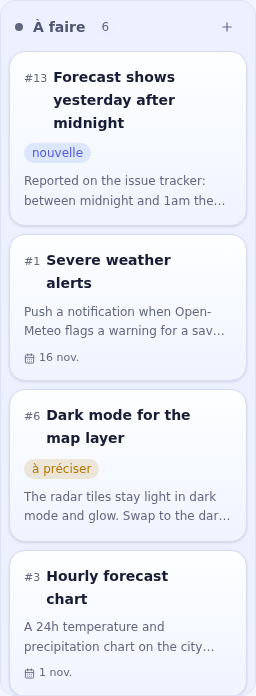
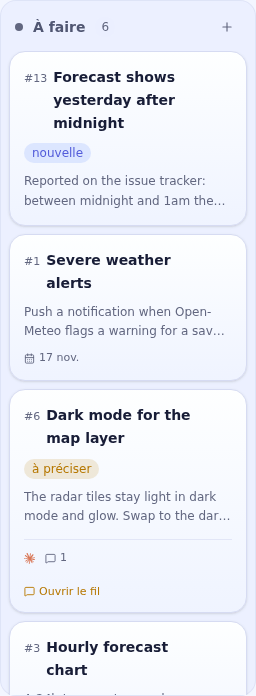
Clarifier une carte au lancement, avant d'écrire du code (#67)
- Le briefing d'une session sur une carte ouverte lui dit de lire la carte puis le
  code, et, si la carte ne suffit pas, de la mettre « à préciser », de poser ses
  questions dans le fil et en note, et de finir son tour sans coder.
- Relancée sur une carte « à préciser », la session est invitée à relire les
  questions avec les réponses ; le lancement ne fait plus passer une telle carte
  « en cours », pour que l'état survive jusqu'au briefing.
- Le board mène au fil qui attend la réponse : « Ouvrir le fil » sur la tuile et
  dans le bandeau de la fiche.

diff --git a/apps/server/src/agents/overview.ts b/apps/server/src/agents/overview.ts
@@ -110,7 +110,13 @@ function describe(row: Row, now: number): string {
  */
 function cardBriefing(db: Db, input: OverviewInput): string | null {
   const card = db
-    .select({ number: cards.number, title: cards.title, column: cards.column, id: cards.id })
+    .select({
+      number: cards.number,
+      title: cards.title,
+      column: cards.column,
+      id: cards.id,
+      toClarifySince: cards.toClarifySince,
+    })
     .from(cards)
     .innerJoin(conversations, eq(conversations.cardId, cards.id))
     .where(eq(conversations.id, input.conversationId))
@@ -124,8 +130,9 @@ function cardBriefing(db: Db, input: OverviewInput): string | null {
     .all()
 
   const previous = before?.total ?? 0
+  const clarifying = card.column === 'todo' && card.toClarifySince !== null
   const lines = [
-    `Cette conversation traite la carte #${card.number} « ${card.title} », ${COLUMN_WORDS[card.column]}.`,
+    `Cette conversation traite la carte #${card.number} « ${card.title} », ${clarifying ? 'à préciser' : COLUMN_WORDS[card.column]}.`,
   ]
 
   if (previous > 0) {
@@ -144,6 +151,8 @@ function cardBriefing(db: Db, input: OverviewInput): string | null {
           : "Terminé, abandonné, l'échéance, la parente et les blocages, eux, se posent dans l'interface et jamais par toi."
       }`,
     )
+    if (clarifying) lines.push(RESUME_CLARIFICATION)
+    else if (OPEN_COLUMNS.has(card.column)) lines.push(CLARIFY_FIRST)
   }
 
   return lines.join(' ')
@@ -151,7 +160,35 @@ function cardBriefing(db: Db, input: OverviewInput): string | null {
 
 /** Ce qu'un agent fait seul sur sa carte (#66), dit dans les deux cas du briefing. */
 const OWN_CARD_GESTURES =
-  "Tu ranges toi-même ta carte avec `move_card` : « à préciser » si elle ne dit pas assez pour écrire du code, « en cours » quand tu travailles, « à vérifier » quand ton travail attend une relecture. Coche ses sous-tâches à mesure avec `edit_subtasks`, et si le cahier des charges change en route, complète sa description avec `append_card_description`, sans réécrire ce qui précède."
+  "Tu ranges toi-même ta carte avec `move_card` : « à préciser » quand tu attends des réponses, « en cours » quand tu travailles, « à vérifier » quand ton travail attend une relecture. Coche ses sous-tâches à mesure avec `edit_subtasks`, et si le cahier des charges change en route, complète sa description avec `append_card_description`, sans réécrire ce qui précède."
+
+/**
+ * La clarification avant le code (#67).
+ *
+ * Une carte écrite vite laisse des trous que l'agent comble par des suppositions, et on
+ * ne le découvre qu'à la relecture, quand le code est écrit. Lire le code avant de
+ * questionner est ce qui distingue une question utile (« ce champ existe déjà dans tel
+ * fichier, on l'étend ? ») d'une question générique. Finir son tour sans coder est la
+ * moitié de la consigne : un modèle pose ses questions puis enchaîne sur ses propres
+ * hypothèses si on ne lui dit pas d'attendre.
+ *
+ * Pas dite sur une carte en relecture ou fermée : ce qu'il y reste à faire n'est plus
+ * de cadrer le travail.
+ */
+const CLARIFY_FIRST =
+  "Avant d'écrire du code, lis la carte puis le code qu'elle concerne, pour juger si elle dit assez pour travailler et pour poser des questions précises plutôt que génériques. Si elle suffit, travaille. Sinon, mets-la « à préciser » avec `move_card`, pose tes questions dans ta réponse, laisse-les aussi en note avec `add_card_note` pour qu'on les voie depuis le board, et termine ton tour sans écrire de code : la réponse viendra dans ce fil. Avec elle, ramène la carte « en cours », et si le cahier des charges a changé, complète sa description avec `append_card_description`."
+
+/**
+ * La reprise d'une carte laissée « à préciser » : une session précédente a posé des
+ * questions, et la réponse est peut-être dans le premier message de celle-ci. Le
+ * lancement ne la fait pas passer « en cours » (`advanceCardOnLaunch`), pour que ce
+ * soit dit ici.
+ */
+const RESUME_CLARIFICATION =
+  "Elle est « à préciser » : une session précédente a posé des questions, qui sont dans ses notes (`read_card`). Relis-les avec les réponses de l'utilisateur avant d'écrire du code. Si elles suffisent, ramène la carte « en cours » avec `move_card`, et complète sa description avec `append_card_description` si le cahier des charges a changé ; sinon, pose ce qui reste et termine ton tour."
+
+/** Les colonnes où le travail n'est pas encore cadré, et où la clarification se dit. */
+const OPEN_COLUMNS = new Set(['todo', 'in_progress'])
 
 /** Les colonnes en toutes lettres : les valeurs stockées sont des identifiants. */
 const COLUMN_WORDS: Record<string, string> = {

diff --git a/apps/web/src/components/board/CardDetail.tsx b/apps/web/src/components/board/CardDetail.tsx
@@ -1,8 +1,8 @@
-import { CalendarDays, Check, ChevronDown, CircleHelp, ListTree, MoreHorizontal, Pencil, Play, Plus, Trash2, X } from 'lucide-react'
+import { CalendarDays, Check, ChevronDown, CircleHelp, ListTree, MessageSquare, MoreHorizontal, Pencil, Play, Plus, Trash2, X } from 'lucide-react'
 import { useEffect, useState, type ReactNode } from 'react'
 import { useNavigate } from 'react-router-dom'
 import { CARD_CLOSED_COLUMNS, CARD_COLUMNS, parentCloseProposed, parseSubtasks, type CardDto } from '@solera/protocol'
-import { useCardSaving, useDeleteCard, useToggleSubtask, useTriageCard, useUpdateCard } from '../../lib/cards'
+import { clarifyingThread, latestSession, useCardSaving, useDeleteCard, useToggleSubtask, useTriageCard, useUpdateCard } from '../../lib/cards'
 import { useCardDraft } from '../../lib/card-drafts'
 import { useCurrentUser } from '../../lib/session'
 import { locale, translate, useTranslate } from '../../lib/i18n'
@@ -75,9 +75,8 @@ export function CardDetail({
   const accepted = card.acceptedAt !== null
   const toggleSubtask = useToggleSubtask(projectId, card.id)
   const saving = useCardSaving(card.id)
-  const latestSession = card.conversations.filter((session) => !session.archivedAt)
-    .sort((a, b) => b.createdAt - a.createdAt)[0]
-  const resumable = latestSession && latestSession.id !== currentConversationId ? latestSession : undefined
+  const latest = latestSession(card)
+  const resumable = latest && latest.id !== currentConversationId ? latest : undefined
 
   const { data: user } = useCurrentUser()
   const { draft, setDraft, acknowledge } = useCardDraft(user?.id ?? '', card.id)
@@ -263,7 +262,8 @@ export function CardDetail({
           </aside>
 
           <div className="flex min-w-0 flex-col gap-5 pb-5 [grid-area:desc]">
-            <CardStateBanners card={card} projectId={projectId} accepted={accepted} triage={triage} updateCard={updateCard} />
+            <CardStateBanners card={card} projectId={projectId} accepted={accepted} triage={triage} updateCard={updateCard}
+              currentConversationId={currentConversationId} />
             {editVisible ? null : (
               <div className="flex flex-col gap-2">
                 {card.description ? (
@@ -303,15 +303,21 @@ function CardStateBanners({
   accepted,
   triage,
   updateCard,
+  currentConversationId,
 }: {
   card: CardDto
   projectId: string
   accepted: boolean
   triage: ReturnType<typeof useTriageCard>
   updateCard: ReturnType<typeof useUpdateCard>
+  currentConversationId?: string
 }) {
   const t = useTranslate()
+  const navigate = useNavigate()
   const busy = triage.isPending || updateCard.isPending
+  // Lu depuis le fil même, le lien y ramènerait : on y est déjà.
+  const thread = clarifyingThread(card)
+  const openThread = thread && thread.id !== currentConversationId ? thread : undefined
   return (
     <>
       {!accepted && card.column === 'todo' ? (
@@ -344,7 +350,13 @@ function CardStateBanners({
       {card.toClarifySince !== null && card.column === 'todo' ? (
         <div className="flex flex-col gap-2">
           <Banner tone="caution">{t('board.card.toClarify.body')}</Banner>
-          <div>
+          <div className="flex flex-wrap items-center gap-1.5">
+            {openThread ? (
+              <Button size="sm" icon={<MessageSquare size={14} />}
+                onClick={() => navigate(`/p/${projectId}/c/${openThread.id}`)}>
+                {t('board.card.toClarify.openThread')}
+              </Button>
+            ) : null}
             <Button size="sm" variant="secondary" icon={<Check size={14} />} disabled={busy}
               onClick={() => updateCard.mutate({ id: card.id, toClarify: false })}>
               {t('board.card.toClarify.clear')}

diff --git a/apps/server/test/card-fields.test.ts b/apps/server/test/card-fields.test.ts
@@ -7,8 +7,9 @@ import { fileURLToPath } from 'node:url'
 import Fastify from 'fastify'
 import multipart from '@fastify/multipart'
 import { asc, eq } from 'drizzle-orm'
-import { cardMoves, openDatabase, projects, runMigrations, users } from '@solera/db'
+import { cardMoves, conversations, openDatabase, projects, runMigrations, users } from '@solera/db'
 import { parseSubtasks, toggleSubtask, type CardDto } from '@solera/protocol'
+import { projectOverview } from '../src/agents/overview.js'
 import { AttachmentStore } from '../src/attachments/store.js'
 import { advanceCardOnLaunch, createCard } from '../src/cards/create.js'
 import type { Config } from '../src/config.js'
@@ -196,6 +197,40 @@ test('à préciser : ramène en « à faire », et s\'efface dès que la carte e
 
   await patch({ column: 'done' })
   assert.equal((await patch({ toClarify: true })).statusCode, 409, 'une carte fermée n\'a plus rien à préciser')
+})
+
+test('à préciser au lancement : la carte reste « à faire », et le briefing demande de relire les questions', async (t) => {
+  const { app, ctx, db, create } = await harness(t)
+  const card = await create('Floue')
+  const briefing = () =>
+    projectOverview(db, { projectId: 'project', conversationId: 'session', soleraMcp: true, cardFiling: false }) ?? ''
+  db.insert(conversations).values({
+    id: 'session', projectId: 'project', userId: 'owner', title: 'Sur la carte', agent: 'claude', config: '{}',
+    status: 'running', cardId: card.id, createdAt: 1, updatedAt: 1,
+  }).run()
+
+  // Une carte neuve : clarifier avant le code, en lisant le code d'abord.
+  assert.match(briefing(), /Avant d'écrire du code, lis la carte puis le code qu'elle concerne/)
+  assert.match(briefing(), /termine ton tour sans écrire de code/)
+
+  // Relancée après les questions : le lancement ne l'efface pas, le briefing le dit.
+  await app.inject({ method: 'PATCH', url: `/api/cards/${card.id}`, payload: { toClarify: true } })
+  advanceCardOnLaunch(ctx, card.id, 'owner')
+  const after: CardDto = (await app.inject('/api/projects/project/cards')).json().find((row: CardDto) => row.id === card.id)
+  assert.equal(after.column, 'todo')
+  assert.equal(typeof after.toClarifySince, 'number', 'le lancement ne lève pas l\'état')
+  assert.match(briefing(), /« Floue », à préciser\./)
+  assert.match(briefing(), /une session précédente a posé des questions/)
+  assert.doesNotMatch(briefing(), /Avant d'écrire du code, lis la carte/)
+
+  // En relecture, plus rien à cadrer.
+  await app.inject({ method: 'PATCH', url: `/api/cards/${card.id}`, payload: { column: 'review' } })
+  assert.doesNotMatch(briefing(), /Avant d'écrire du code|à préciser »\s*:/)
+
+  // Sans les outils de Solera, ni l'une ni l'autre : elles nomment des outils absents.
+  await app.inject({ method: 'PATCH', url: `/api/cards/${card.id}`, payload: { column: 'todo' } })
+  const bare = projectOverview(db, { projectId: 'project', conversationId: 'session', soleraMcp: false, cardFiling: false }) ?? ''
+  assert.doesNotMatch(bare, /move_card/)
 })
 
 test('non acceptée : acceptée, rattachée ou refusée, et sans session tant qu\'elle attend', async (t) => {

diff --git a/apps/web/src/components/board/CardTile.tsx b/apps/web/src/components/board/CardTile.tsx
@@ -3,6 +3,8 @@ import { CSS } from '@dnd-kit/utilities'
 import { CalendarDays, CheckSquare, Clock, GitBranch, GripVertical, Link2, ListTree, MessageSquare, Paperclip } from 'lucide-react'
 import { parseSubtasks, type CardDto, type ProjectDto } from '@solera/protocol'
 import type { KeyboardEventHandler, MouseEventHandler, TouchEventHandler } from 'react'
+import { Link } from 'react-router-dom'
+import { clarifyingThread } from '../../lib/cards'
 import { daysUntil, formatDay, relativeDate, shortAge } from '../../lib/dates'
 import { useTranslate } from '../../lib/i18n'
 import { AgentIcon } from '../AgentIcon'
@@ -62,6 +64,7 @@ export function CardTile({ card, project, selected = false, overlay = false, dis
   // Une échéance ne colore la tuile que quand il est trop tard ou presque : une date
   // posée pour dans trois semaines est une information, pas une alerte.
   const days = card.dueAt === null ? null : daysUntil(card.dueAt)
+  const thread = clarifyingThread(card)
 
   const body = (
     <>
@@ -188,6 +191,23 @@ export function CardTile({ card, project, selected = false, overlay = false, dis
       <button data-card-open={card.id} type="button" onClick={onOpen} className="w-full p-3.5 text-left">
         {body}
       </button>
+
+      {/* Hors du bouton de la carte, un lien ne pouvant pas vivre dans un bouton : une
+          carte « à préciser » attend une réponse dans un fil, et y aller est le seul
+          geste utile à faire depuis le board (#67). Le pointeur arrêté ici ne saisit pas
+          la carte. */}
+      {thread ? (
+        <Link
+          to={`/p/${card.projectId}/c/${thread.id}`}
+          data-card-thread={card.number}
+          onMouseDown={(event) => event.stopPropagation()}
+          onTouchStart={(event) => event.stopPropagation()}
+          className="mx-3.5 mb-3 -mt-1.5 inline-flex items-center gap-1 rounded text-meta font-medium text-caution hover:underline"
+        >
+          <MessageSquare size={11} />
+          {t('board.card.toClarify.openThread')}
+        </Link>
+      ) : null}
 
       {!disabled ? <button
         type="button"

diff --git a/apps/server/src/cards/create.ts b/apps/server/src/cards/create.ts
@@ -1,5 +1,5 @@
 import { randomUUID } from 'node:crypto'
-import { and, eq, inArray, max } from 'drizzle-orm'
+import { and, eq, inArray, isNull, max } from 'drizzle-orm'
 import { cardRefs, cards, writeTransaction, type CardRow, type Db } from '@solera/db'
 import { parseCardReferences, type CardColumn } from '@solera/protocol'
 import type { AppContext } from '../http/context.js'
@@ -13,12 +13,16 @@ import { resolveParent, syncParentColumn } from './tree.js'
  * active : la colonne est une position choisie, et seul un geste la change. Une carte
  * déjà plus loin dans le workflow ne recule pas — relancer une session sur une carte
  * en relecture n'annule pas la relecture.
+ *
+ * Une carte « à préciser » ne bouge pas non plus : passer « en cours » effacerait l'état
+ * avant que le briefing de la session ne le voie, et c'est à elle de juger, réponses
+ * lues, si la carte est assez claire pour reprendre (#67).
  */
 export function advanceCardOnLaunch(ctx: AppContext, cardId: string, userId: string): void {
   const moved = ctx.db
     .update(cards)
     .set({ column: 'in_progress', updatedAt: Date.now() })
-    .where(and(eq(cards.id, cardId), eq(cards.column, 'todo')))
+    .where(and(eq(cards.id, cardId), eq(cards.column, 'todo'), isNull(cards.toClarifySince)))
     .run()
 
   // L'un des trois chemins qui changent une colonne, et le plus facile à oublier

diff --git a/apps/server/src/cli/demo-seed.ts b/apps/server/src/cli/demo-seed.ts
@@ -1660,6 +1660,32 @@ Check the installed CLIs against their latest releases: run \`claude --version\`
         outputTokens: 2450,
       }),
     },
+    // La session de la carte « à préciser » (#67) : elle a lu la carte et le code, posé
+    // ses questions, et attend. C'est le fil où mène « Ouvrir le fil » du board.
+    {
+      projectId: nimbusId,
+      cardId: cardIds.get(6),
+      title: 'Dark mode for the map layer',
+      agent: 'claude',
+      model: 'claude-sonnet-5',
+      config: claudeConfig,
+      status: 'idle',
+      ageDays: 0.2,
+      spanSec: 9,
+      costUsd: 0.0814,
+      inputTokens: 11,
+      outputTokens: 640,
+      events: simpleThread({
+        agent: 'claude',
+        model: 'claude-sonnet-5',
+        cwd: nimbusRoot,
+        user: 'Work on card #6, Dark mode for the map layer.',
+        assistant:
+          "Before writing code, two questions — I've marked the card *to clarify* and left them as a note:\n\n1. `src/lib/radar-tiles.ts` only knows the light tile set. Should the dark set come from the same provider (its `dark_all` style), or do you have another source in mind?\n2. The theme can be *system*. Should the map follow the OS switch live, or only on reload?",
+        costUsd: 0.0814,
+        outputTokens: 640,
+      }),
+    },
     {
       projectId: nimbusId,
       title: 'Migrate icons to Lucide',

diff --git a/apps/web/src/lib/cards.ts b/apps/web/src/lib/cards.ts
@@ -2,6 +2,7 @@ import { useIsMutating, useMutation, useQueries, useQuery, useQueryClient } from
 import { useMemo } from 'react'
 import type {
   CardColumn,
+  CardConversationDto,
   CardDto,
   CardLinkDto,
   CardNoteDto,
@@ -357,4 +358,21 @@ export function ancestorIds(cards: readonly CardDto[], card: CardDto): Set<strin
     cursor = byId.get(cursor)?.parent?.id
   }
   return found
+}
+
+/** La session la plus récente de la carte qui n'est pas archivée, celle qu'on reprend. */
+export function latestSession(card: CardDto): CardConversationDto | undefined {
+  return card.conversations.filter((session) => !session.archivedAt).sort((a, b) => b.createdAt - a.createdAt)[0]
+}
+
+/**
+ * Le fil où une carte « à préciser » attend des réponses (#67).
+ *
+ * La plus récente session vivante : c'est elle qui a posé les questions, ou qui les
+ * a reprises. Le DTO ne dit pas laquelle a posé l'état, et la plus récente est celle
+ * où répondre sans faire relire une conversation déjà dépassée.
+ */
+export function clarifyingThread(card: CardDto): CardConversationDto | undefined {
+  if (card.column !== 'todo' || card.toClarifySince === null) return undefined
+  return latestSession(card)
 }

diff --git a/apps/web/src/lib/i18n/catalog-fr.ts b/apps/web/src/lib/i18n/catalog-fr.ts
@@ -2235,6 +2235,7 @@ export const fr: Catalog = {
   'board.card.toClarify.mark': 'Marquer à préciser',
   'board.card.toClarify.body': 'À préciser : des questions attendent une réponse avant le code. Elles sont dans le fil de la session et dans les notes.',
   'board.card.toClarify.clear': 'Précisée',
+  'board.card.toClarify.openThread': 'Ouvrir le fil',
   'board.parent.label': 'Filtrer par parente',
   'board.parent.all': 'Toutes les cartes',
   'board.card.blocks.add': 'Déclarer une carte bloquée',

diff --git a/apps/web/src/lib/i18n/catalog-en.ts b/apps/web/src/lib/i18n/catalog-en.ts
@@ -2239,6 +2239,7 @@ export const en = {
   'board.card.toClarify.mark': 'Mark as to clarify',
   'board.card.toClarify.body': 'To clarify: questions await an answer before any code. They are in the session thread and in the notes.',
   'board.card.toClarify.clear': 'Clarified',
+  'board.card.toClarify.openThread': 'Open the thread',
   'board.parent.label': 'Filter by parent',
   'board.parent.all': 'All cards',
   'board.card.blocks.add': 'Mark a card as blocked',
